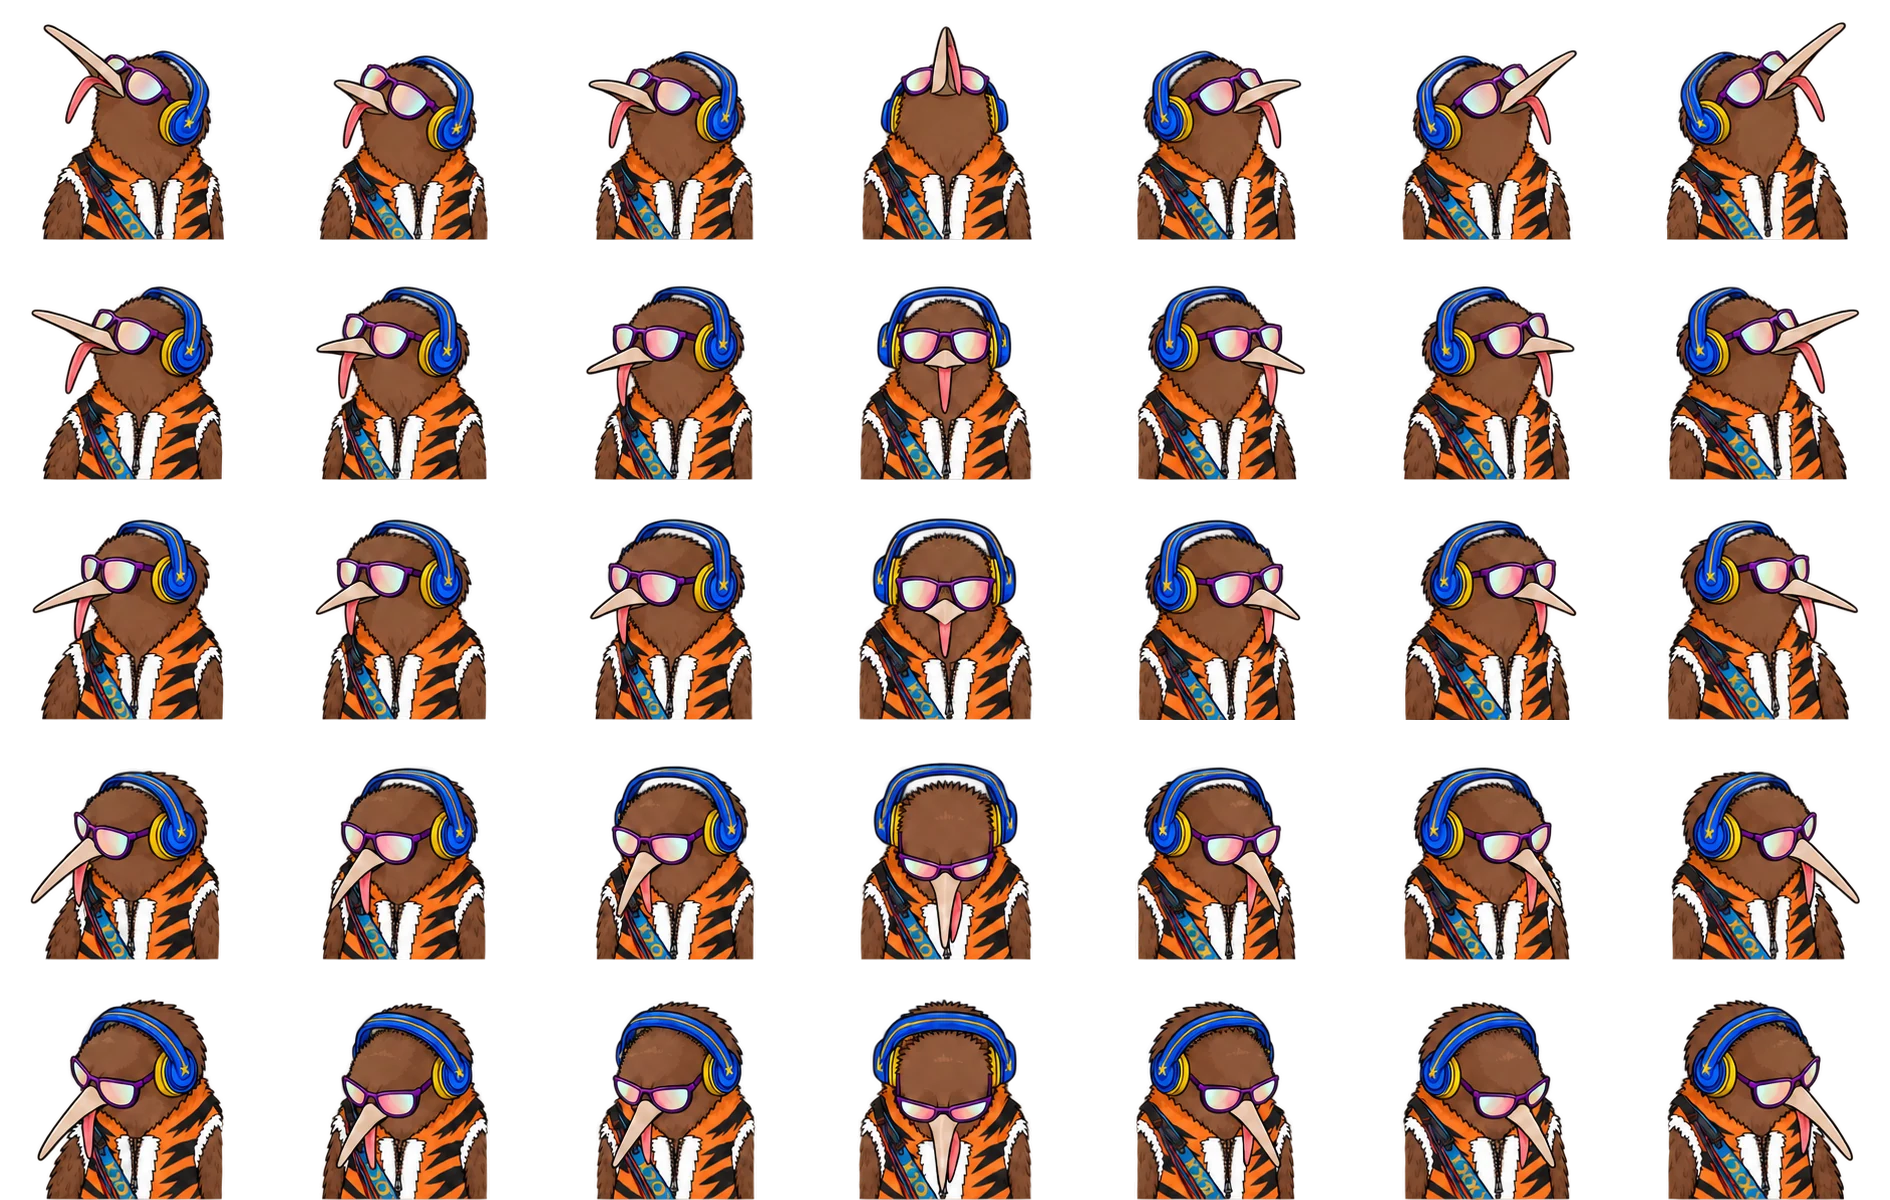
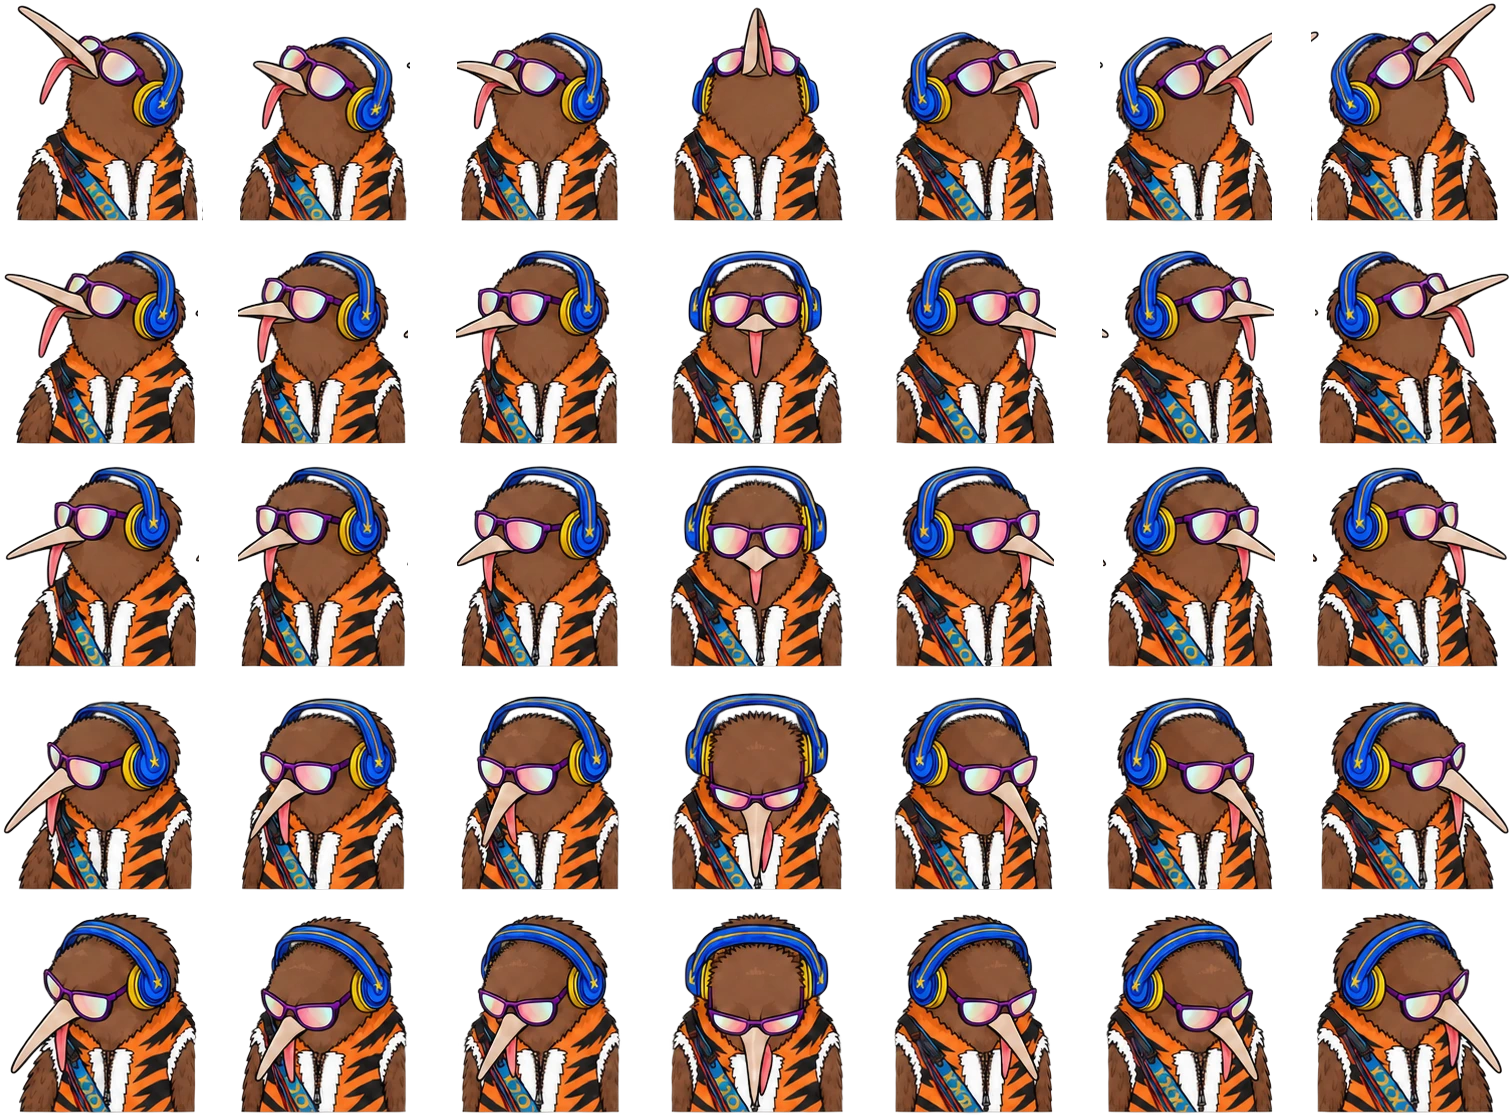
Kiwi: sprite from the transparent PNG, tight 216x223 cells, original on-page size restored

diff --git a/styles.css b/styles.css
@@ -190,7 +190,7 @@ body::before {
 .social a:hover { color: var(--accent-ink); }
 
 .kiwi {
-  position: relative; width: 100%; max-width: 480px; aspect-ratio: 270 / 240; justify-self: end; align-self: end;
+  position: relative; width: 100%; max-width: 412px; aspect-ratio: 216 / 223; justify-self: end; align-self: end;
   margin-bottom: calc(-1 * clamp(3rem, 7vw, 6rem) - 16px);   /* bleed off the hero's bottom edge */
   transform-origin: 50% 100%;
   animation: bob 1.9s ease-in-out infinite;
@@ -206,8 +206,8 @@ body::before {
 .kstack {
   position: absolute; inset: 0; z-index: 1;
   filter: drop-shadow(0 24px 40px rgba(0, 0, 0, 0.55));
-  mask-image: linear-gradient(to bottom, #000 90%, transparent 100%);
-  -webkit-mask-image: linear-gradient(to bottom, #000 90%, transparent 100%);
+  mask-image: linear-gradient(to bottom, #000 93%, transparent 100%);
+  -webkit-mask-image: linear-gradient(to bottom, #000 93%, transparent 100%);
 }
 .kf {
   position: absolute; inset: 0;
@@ -220,7 +220,7 @@ body::before {
   0%, 100% { translate: 0 0; }
   50% { translate: 0 -10px; }
 }
-@media (max-width: 899px) { .kiwi { max-width: 340px; justify-self: start; } }
+@media (max-width: 899px) { .kiwi { max-width: 300px; justify-self: start; } }
 @media (prefers-reduced-motion: reduce) { .kiwi { animation: none; } }
 
 /* ---------- marquee ---------- */
